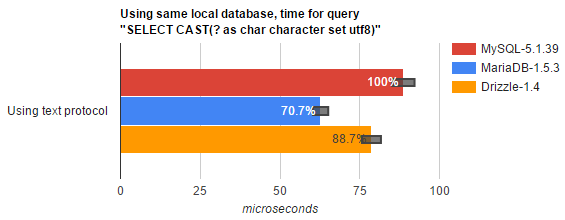
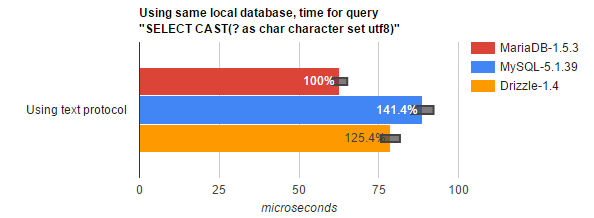
update readme

diff --git a/results/index.html b/results/index.html
@@ -86,11 +86,11 @@ http://htmlpreview.github.io/?https://github.com/rusher/mariadb-java-driver-benc
 
             var defaultData = new google.visualization.DataTable();
             defaultData.addColumn('string', 'x');
-            defaultData.addColumn('number', 'MySQL-5.1.39');
+            defaultData.addColumn('number', 'MariaDB-1.5.3');
             defaultData.addColumn({role: 'annotation', type: 'string'});
             defaultData.addColumn({id: 'min', type: 'number', role: 'interval'});
             defaultData.addColumn({id: 'max', type: 'number', role: 'interval'});
-            defaultData.addColumn('number', 'MariaDB-1.5.3');
+            defaultData.addColumn('number', 'MySQL-5.1.39');
             defaultData.addColumn({role: 'annotation', type: 'string'});
             defaultData.addColumn({id: 'min', type: 'number', role: 'interval'});
             defaultData.addColumn({id: 'max', type: 'number', role: 'interval'});
@@ -106,11 +106,11 @@ http://htmlpreview.github.io/?https://github.com/rusher/mariadb-java-driver-benc
 
             var defaultData = new google.visualization.DataTable();
             defaultData.addColumn('string', 'x');
-            defaultData.addColumn('number', 'MySQL-5.1.39');
+            defaultData.addColumn('number', 'MariaDB-1.5.3');
             defaultData.addColumn({role: 'annotation', type: 'string'});
             defaultData.addColumn({id: 'min', type: 'number', role: 'interval'});
             defaultData.addColumn({id: 'max', type: 'number', role: 'interval'});
-            defaultData.addColumn('number', 'MariaDB-1.5.3');
+            defaultData.addColumn('number', 'MySQL-5.1.39');
             defaultData.addColumn({role: 'annotation', type: 'string'});
             defaultData.addColumn({id: 'min', type: 'number', role: 'interval'});
             defaultData.addColumn({id: 'max', type: 'number', role: 'interval'});
@@ -121,11 +121,11 @@ http://htmlpreview.github.io/?https://github.com/rusher/mariadb-java-driver-benc
         function defaultDataMaria15() {
             var defaultData = new google.visualization.DataTable();
             defaultData.addColumn('string', 'x');
-            defaultData.addColumn('number', 'MySQL-5.1.39');
+            defaultData.addColumn('number', 'MariaDB-1.5.3');
             defaultData.addColumn({role: 'annotation', type: 'string'});
             defaultData.addColumn({id: 'min', type: 'number', role: 'interval'});
             defaultData.addColumn({id: 'max', type: 'number', role: 'interval'});
-            defaultData.addColumn('number', 'MariaDB-1.5.3-SNAPSHOT');
+            defaultData.addColumn('number', 'MySQL-5.1.39');
             defaultData.addColumn({role: 'annotation', type: 'string'});
             defaultData.addColumn({id: 'min', type: 'number', role: 'interval'});
             defaultData.addColumn({id: 'max', type: 'number', role: 'interval'});
@@ -372,7 +372,7 @@ github.com style (c) Vasily Polovnyov <vast@whiteants.net>
 
     <p> Benchmark source: <a href="https://github.com/rusher/mariadb-java-driver-benchmark">https://github.com/rusher/mariadb-java-driver-benchmark</a>.</p>
 
-    Tests are pretty straightforward.<br/>
+    Tests are pretty straightforward if you are familiar with java.<br/>
     Example:
     <pre><code class="java">
 public class BenchmarkSelect1RowPrepareText extends BenchmarkSelect1RowPrepareAbstract {
@@ -415,8 +415,8 @@ public abstract class BenchmarkSelect1RowPrepareAbstract extends BenchmarkInit {
     </p>
 
     <p>
-    Benchmark results have been executed on MariaDB Server 10.1.16 and MySQL Community Server 5.7.13 databases. 
-    Results are similar (see raw results at document bottom), so the following document show results using MariaDB Server 10.1.16.
+		Benchmark results have been executed on MariaDB Server 10.1.17 and MySQL Community Server 5.7.13 databases. 
+		Differences between drivers are simular (see raw results at the bottom of the document), so the following document show results using MariaDB Server 10.1.17.
     </p>
     <br/>
     
@@ -427,7 +427,7 @@ public abstract class BenchmarkSelect1RowPrepareAbstract extends BenchmarkInit {
         <li>Ubuntu 16.04 64bits</li>
         <li>512Mb memory</li>
         <li>1 CPU</li>
-        <li>database MariaDB "10.1.16-MariaDB", MySQL Community Server build "5.7.15-0ubuntu0.16.04.1"<br/>
+        <li>database MariaDB "10.1.17-MariaDB", MySQL Community Server build "5.7.15-0ubuntu0.16.04.1"<br/>
             using default configuration files and these additional options :
             <ul>
                 <li>max_allowed_packet      = 40M #exchange packet can be up to 40mb</li>
@@ -443,9 +443,9 @@ public abstract class BenchmarkSelect1RowPrepareAbstract extends BenchmarkInit {
 
     <pre class="java">
 Benchmark                                           Score     Error  Units
-BenchmarkSelect1RowPrepareText.drizzle              78.672 &#177;  2.971  &micro;s/op
 BenchmarkSelect1RowPrepareText.mariadb              62.715 &#177;  2.402  &micro;s/op
 BenchmarkSelect1RowPrepareText.mysql                88.670 &#177;  3.505  &micro;s/op
+BenchmarkSelect1RowPrepareText.drizzle              78.672 &#177;  2.971  &micro;s/op
 </pre>
 
     <div id="box_select1Text"></div>
@@ -453,7 +453,7 @@ BenchmarkSelect1RowPrepareText.mysql                88.670 &#177;  3.505  &micro
         google.charts.setOnLoadCallback(function () {
             var data = defaultData();
             var array = [
-                ['Using text protocol', 88.670,  3.505, 62.715,  2.402, 78.672,  2.971]
+                ['Using text protocol', 62.715,  2.402, 88.670,  3.505, 78.672,  2.971]
             ];
             data.addRows(getBoxPlotValues(array, true));
 
@@ -474,7 +474,7 @@ BenchmarkSelect1RowPrepareText.mysql                88.670 &#177;  3.505  &micro
         
     </p>
     <p>
-        Displayed percentages are set according to the first result as reference (100%), permitting to compare easily other results.
+        Displayed percentages are set according to the mariadb first result as reference (100%), permitting to easily compare other results.
     </p>
 
 
@@ -485,13 +485,13 @@ BenchmarkSelect1RowPrepareText.mysql                88.670 &#177;  3.505  &micro
     
     Different behaviours:
     <h4>Text protocol</h4>
-    This corresponds to option <a href="https://github.com/MariaDB/mariadb-connector-j/blob/master/documentation/Use-MariaDB-Connector-j-driver.md#useServerPrepStmts">useServerPrepStmts</a> disabled.<br/>
+    This corresponds to option <a href="https://github.com/MariaDB/mariadb-connector-j/blob/master/documentation/use-mariadb-connector-j-driver.creole#essential-options">useServerPrepStmts</a> disabled.<br/>
     Queries are sent directly to the server with sanitized parameters replacement done on client side.<br>
     Data is sent like text. Example: A timestamp will be sent like text "1970-01-01 00:00:00.000500" using 26 bytes
     
     <h4>Binary protocol</h4>
     <p>
-    This corresponds to the option <a href="https://github.com/MariaDB/mariadb-connector-j/blob/master/documentation/Use-MariaDB-Connector-j-driver.md#useServerPrepStmts">useServerPrepStmts</a> enabled (default implementation on MariaDB driver).<br/>
+    This corresponds to the option <a href="https://github.com/MariaDB/mariadb-connector-j/blob/master/documentation/use-mariadb-connector-j-driver.creole#essential-options">useServerPrepStmts</a> enabled (default implementation on MariaDB driver).<br/>
     Data is sent in binary. Example timestamp "1970-01-01 00:00:00.000500" will be sent using 11 bytes.</p>
     
     <p>There are up to 3 exchanges with the server for one query :
@@ -508,7 +508,7 @@ BenchmarkSelect1RowPrepareText.mysql                88.670 &#177;  3.505  &micro
     </p>
 
     <h4>Rewrite</h4>
-    This corresponds to the option <a href="https://github.com/MariaDB/mariadb-connector-j/blob/master/documentation/Use-MariaDB-Connector-j-driver.md#rewriteBatchedStatements">rewriteBatchedStatements</a> enabled.<br/>
+    This corresponds to the option <a href="https://github.com/MariaDB/mariadb-connector-j/blob/master/documentation/use-mariadb-connector-j-driver.creole#essential-options">rewriteBatchedStatements</a> enabled.<br/>
     Rewrite uses the text protocol and concern only batches. 
     The driver will rewrite the query for faster results. 
     <p>
@@ -536,7 +536,8 @@ BenchmarkSelect1RowPrepareText.mysql                88.670 &#177;  3.505  &micro
     <h1 id="bencmark_results">BENCHMARK RESULTS</h1>
     <h2>MariaDB driver results</h2>
     <h3>Single SELECT query</h3>
-<pre><code class="java">private String request = "SELECT CAST(? as char character set utf8)";
+<pre><code class="java">	
+private String request = "SELECT CAST(? as char character set utf8)";
 
 public String select1RowPrepare(Connection connection, MyState state) throws SQLException {
     try (PreparedStatement preparedStatement = connection.prepareStatement(request)) {
@@ -597,8 +598,10 @@ BenchmarkSelect1RowPrepareText.mariadb              422.215 &#177;  15.858  &mic
         });
     </script>
     <p>
-        When the PREPARE result for this exact query is already in cache (cache hit), query will be faster (18.7% for the SELECT) than using text protocol.
-        Due to the additional request PREPARE and DEALLOCATE exchanges, cache miss is 84.1% slower.<br/>
+        When the PREPARE result for this exact query is already in cache (cache hit), query will be faster (7.1% in this example) than using text protocol.
+        Due to the additional request PREPARE and DEALLOCATE exchanges, cache miss is 68.1% slower.
+	</p>
+	<p>
         This emphasis the advantages and inconvenients of using a binary protocol. Cache HIT is important.
     </p>
 <br/><br/>
@@ -716,7 +719,7 @@ PrepareStatementBatch100InsertText.mariadb          8.148 &#177;   0.563  ms/op<
     </p>
     <p>
 		Insert's are send by bulk and results read asynchronously (that corresponds to option <a href="https://github.com/MariaDB/mariadb-connector-j/blob/master/documentation/use-mariadb-connector-j-driver.creole#user-content-essential-options">useBatchMultiSend</a>).
-		This permit to have distant results not with performance not far from those local. 
+		This permit to have distant results with performance not far from those local. 
     </p>
     <p>
         Rewrite has amazing good performance, but will not have auto-increment ids. 
@@ -732,9 +735,9 @@ BenchmarkSelect1RowPrepareHit.mariadb                58.267 &#177;  2.270  &micr
 BenchmarkSelect1RowPrepareHit.mysql                  73.789 &#177;  1.863  &micro;s/op
 BenchmarkSelect1RowPrepareMiss.mariadb              118.896 &#177;  5.500  &micro;s/op
 BenchmarkSelect1RowPrepareMiss.mysql                150.679 &#177;  4.791  &micro;s/op
-BenchmarkSelect1RowPrepareText.drizzle               78.672 &#177;  2.971  &micro;s/op
 BenchmarkSelect1RowPrepareText.mariadb               62.715 &#177;  2.402  &micro;s/op
 BenchmarkSelect1RowPrepareText.mysql                 88.670 &#177;  3.505  &micro;s/op
+BenchmarkSelect1RowPrepareText.drizzle               78.672 &#177;  2.971  &micro;s/op
 BenchmarkSelect1RowPrepareTextHA.mariadb             64.676 &#177;  2.192  &micro;s/op
 BenchmarkSelect1RowPrepareTextHA.mysql              137.289 &#177;  4.872  &micro;s/op</pre>
     <div id="box_select"></div>
@@ -745,10 +748,10 @@ BenchmarkSelect1RowPrepareTextHA.mysql              137.289 &#177;  4.872  &micr
         function drawSelectPlot() {
             var data = defaultData();
             var array = [
-                ['Text protocol', 88.670 ,  3.505, 62.715,  2.402, 78.672,  2.971],
-                ['Text protocol HA', 137.289,  4.872, 64.676,  2.192,0,0],
-                ['Binary with cache miss', 150.679, 4.791, 118.896,  5.500,0,0],
-                ['Binary with cache hit', 73.789, 1.863, 58.267,  2.270 ,0,0]                
+                ['Text protocol', 62.715,  2.402, 88.670 ,  3.505, 78.672,  2.971],
+                ['Text protocol HA', 64.676,  2.192, 137.289,  4.872,0,0],
+                ['Binary with cache miss', 118.896,  5.500, 150.679, 4.791,0,0],
+                ['Binary with cache hit', 58.267,  2.270, 73.789, 1.863 ,0,0]                
             ];
             data.addRows(getBoxPlotValues(array, true));
 
@@ -766,15 +769,17 @@ BenchmarkSelect1RowPrepareTextHA.mysql              137.289 &#177;  4.872  &micr
         HA stands for "High Availability" using the Master-Slave configuration <br>(connection URL is "jdbc:mysql:replication://localhost:3306,localhost:3306/testj").
     </p>    
     <p>
-    Using the HA configuration will add a little execution time using MariaDB driver: 62.715 without become 64.676 microseconds.
-    
-    MariaDB and MySQL Driver use the Design Patterns java dynamic <a href="https://docs.oracle.com/javase/8/docs/api/java/lang/reflect/Proxy.html" target="_blank">Proxy</a> class permitting to filter call and handle failover.
-    This proxy permit to handle failover in a transparent way, but that will add an overhead a few microseconds execution.<br/>
+        These results are due to a lot of different implementation choice. 
+		Here is some reasons that explain time differences: 
+    </p>    
+	<ul>
+		<li>MariaDB driver is optimized for UTF-8, allowing less creation of bytes array, avoiding array copy, and memory consumption.</li>
+		<li>HA implementation : MariaDB and MySQL drivers  
+		use a java dynamic <a href="https://docs.oracle.com/javase/8/docs/api/java/lang/reflect/Proxy.html" target="_blank">Proxy</a> class 
+		sitting between Statement objects and sockets, permitting to add failover behaviour. Those addition will cost an overhead of 2 microseconds per query (62.715 without become 64.676 microseconds).<br/>In MySQL implementation, nearly all internal methods are proxied, adding an overhead for lots of methods that have nothing to do with failover, adding a total overhead of 50 microseconds to every query.</li>
+	</ul>	
     <p>
-    <p>
-    In MySQL implementation, nearly all internal methods are proxied, adding an overhead to a plain method invocation to methods that have nothing to do with failover. 
-    For example all access to internal variables getMaxRows() will be catched by the proxy implementation, adding a total overhead of 50 microseconds to every query.
-    <br/>(Drizzle has no PREPARE, neither HA functionality)
+		(Drizzle has no PREPARE, neither HA functionality)
     </p>
 <br/><br/>
     <h2 id="batches">"Select 1000 rows"</h2>
@@ -792,9 +797,9 @@ private ResultSet select1000Row(Connection connection) throws SQLException {
 }</code></pre>
     
 <pre class="java">
-BenchmarkSelect1000Rows.drizzle                     406.877 &#177; 16.585  &micro;s/op
 BenchmarkSelect1000Rows.mariadb                     244.228 &#177;  7.686  &micro;s/op
-BenchmarkSelect1000Rows.mysql                       298.814 &#177; 12.143  &micro;s/op</pre>
+BenchmarkSelect1000Rows.mysql                       298.814 &#177; 12.143  &micro;s/op
+BenchmarkSelect1000Rows.drizzle                     406.877 &#177; 16.585  &micro;s/op</pre>
 
     <div id="box_select1000"></div>
     <script>
@@ -803,7 +808,7 @@ BenchmarkSelect1000Rows.mysql                       298.814 &#177; 12.143  &micr
         function drawSelectPlot() {
             var data = defaultData();
             var array = [
-                ['Select 1000 rows', 298.814,12.143, 244.228,  7.686, 406.877, 16.585]
+                ['Select 1000 rows', 244.228,  7.686, 298.814,12.143, 406.877, 16.585]
             ];
             data.addRows(getBoxPlotValues(array, true));
 
@@ -819,10 +824,11 @@ BenchmarkSelect1000Rows.mysql                       298.814 &#177; 12.143  &micr
     <br/>
 
     <p>
-		If the test was only executing the SELECT without reading the results, execution time would be equivalent for MySQL and MariaDB driver (even 1% faster for MySQL).
-        Since the goal of a SELECT query is to have results, the MariaDB driver is optimized to read results (avoiding the creation of bytes arrays).
+		When using a lot of data, time is mostly spent on reading from socket, and storing result in memory for sending it back to client. 
+		If the benchmark was only executing the SELECT without reading the results, MySQL and MariaDB execution time would be equivalent. 
+		Since the goal of a SELECT query is to have results, the MariaDB driver is optimized to give back results (avoiding the creation of bytes arrays).
     </p>
-<br/><br/>
+	<br/><br/>
     <h2>"Insert 1000 rows"</h2>
     <pre class="java">
 LOCAL DATABASE:        
@@ -830,18 +836,18 @@ PrepareStatementBatch100InsertPrepareHit.mariadb    5.290 &#177;  0.232  ms/op
 PrepareStatementBatch100InsertPrepareHit.mysql      9.015 &#177;  0.440  ms/op
 PrepareStatementBatch100InsertRewrite.mariadb       0.404 &#177;  0.014  ms/op
 PrepareStatementBatch100InsertRewrite.mysql         0.592 &#177;  0.016  ms/op
-PrepareStatementBatch100InsertText.drizzle          7.314 &#177;  0.205  ms/op
 PrepareStatementBatch100InsertText.mariadb          6.081 &#177;  0.254  ms/op
-PrepareStatementBatch100InsertText.mysql            7.932 &#177;  0.293  ms/op</pre>
+PrepareStatementBatch100InsertText.mysql            7.932 &#177;  0.293  ms/op
+PrepareStatementBatch100InsertText.drizzle          7.314 &#177;  0.205  ms/op</pre>
     <pre class="java">
 DISTANT DATABASE:        
 PrepareStatementBatch100InsertPrepareHit.mariadb     7.639 &#177;   0.476  ms/op
 PrepareStatementBatch100InsertPrepareHit.mysql      43.636 &#177;   1.408  ms/op
 PrepareStatementBatch100InsertRewrite.mariadb        1.164 &#177;   0.037  ms/op
 PrepareStatementBatch100InsertRewrite.mysql          1.432 &#177;   0.050  ms/op
-PrepareStatementBatch100InsertText.drizzle          38.735 &#177;   1.731  ms/op
 PrepareStatementBatch100InsertText.mariadb           8.148 &#177;   0.563  ms/op
-PrepareStatementBatch100InsertText.mysql            43.804 &#177;   1.417  ms/op</pre>
+PrepareStatementBatch100InsertText.mysql            43.804 &#177;   1.417  ms/op
+PrepareStatementBatch100InsertText.drizzle          38.735 &#177;   1.731  ms/op</pre>
 
     <div id="box_insert1000" ></div>
     <div id="box_insert1000DISTANT" ></div>
@@ -850,9 +856,9 @@ PrepareStatementBatch100InsertText.mysql            43.804 &#177;   1.417  ms/op
 
         google.charts.setOnLoadCallback(function () {
             var array = [
-                ['Text protocol', 7.932 , 0.293, 6.081 ,  0.254, 7.314,  0.205],
-                ['Binary protocol', 9.015,  0.440, 5.290,  0.232, 0, 0],
-                ['Rewrite', 0.592, 0.016, 0.404, 0.014, 0, 0]
+                ['Text protocol', 6.081 ,  0.254, 7.932 , 0.293, 7.314,  0.205],
+                ['Binary protocol', 5.290,  0.232, 9.015,  0.440, 0, 0],
+                ['Rewrite', 0.404, 0.014, 0.592, 0.016, 0, 0]
             ];
 
             var data = defaultData();
@@ -873,9 +879,9 @@ PrepareStatementBatch100InsertText.mysql            43.804 &#177;   1.417  ms/op
 
         google.charts.setOnLoadCallback(function () {
             var array = [
-                ['Text protocol', 43.804, 1.417, 8.148,   0.563, 38.735 , 1.731],
-                ['Binary protocol', 43.636,  1.408, 7.639,  0.476, 0, 0],
-                ['Rewrite', 1.432 , 0.050, 1.164,   0.037, 0, 0]
+                ['Text protocol', 8.148,   0.563, 43.804, 1.417, 38.735 , 1.731],
+                ['Binary protocol', 7.639,  0.476, 43.636,  1.408, 0, 0],
+                ['Rewrite', 1.164,   0.037, 1.432 , 0.050, 0, 0]
             ];
 
             var data = defaultData();
@@ -890,7 +896,7 @@ PrepareStatementBatch100InsertText.mysql            43.804 &#177;   1.417  ms/op
         });
     </script>
     <p>
-		MySQL and Drizzle bulk insert are like X INSERT's : Driver send 1 INSERT, wait for insert result, and send next insert.
+		MySQL and Drizzle bulk insert are like X INSERT's: Driver send 1 INSERT, wait for insert result, and send next insert.
 		The network latency between each insert will slow down insertions. 
     </p>
     
@@ -920,7 +926,7 @@ BenchmarkCallableStatementWithOutParameter.mysql    714.108 &#177; 44.390  &micr
         google.charts.setOnLoadCallback(function () {
             var data = defaultDataWithoutDrizzle();
             var array = [
-                ['Calling function', 714.108, 44.390 , 88.572,  4.263]
+                ['Calling function', 88.572,  4.263, 714.108, 44.390]
             ];
             data.addRows(getBoxPlotValues(array, true));
 
@@ -948,20 +954,19 @@ BenchmarkCallableStatementWithOutParameter.mysql    714.108 &#177; 44.390  &micr
     
     <h1 id="conclusion">Conclusion</h1>
     
-    <p>MariaDB driver rocks!</p>
-    <p>The binary protocol has different advantages but relies on having the PREPARE results already in cache. 
+    <p>MariaDB driver rocks ! </p>
+  	
+	<p>The binary protocol has different advantages but relies on having the PREPARE results already in cache. 
     If applications have a lot of different kind of queries and database is distant, that may not be the better solution. 
-    </p>
-    
+    </p>  
     <p>Rewrite has amazing results to write data in batch</p>
-
-    <br/>
-    
+	<p>Driver holds well versus other drivers. And there is much to come, but that's another story.</p>
+	<br/><br/>
+    <hr/>    
     Raw results: 
     <ol>
-        <li><a href="./result_mariadb-10.1_server_local.txt">with a MariaDB 10.1.16 database</a></li>
-        <li><a href="./result_mariadb-10.2_server_local.txt">with a MariaDB 10.2.2 database</a> (<a href="./result_mariadb-10.2_server_local.txt">distant</a>)</li>
-        <li><a href="./result_mysql-5.7_server_local.txt">with a MySQL Community Server 5.7.15 database (build 5.7.15-0ubuntu0.16.04.1)</a></li>
+        <li>with a MariaDB 10.1.17 database <a href="https://raw.githubusercontent.com/rusher/mariadb-java-driver-benchmark/master/results/result_mariadb-10.1_server_local.txt">local</a>, <a href="https://raw.githubusercontent.com/rusher/mariadb-java-driver-benchmark/master/results/result_mariadb-10.1_server_distant.txt">distant</a></li>
+        <li>with a MySQL Community Server 5.7.15 database (build 5.7.15-0ubuntu0.16.04.1) <a href="https://raw.githubusercontent.com/rusher/mariadb-java-driver-benchmark/master/results/result_mysql-5.7_server_local.txt">local</a></li>
     </ol>
     
     <script>

diff --git a/README.md b/README.md
@@ -36,11 +36,11 @@ public class BenchmarkSelect1RowPrepareText extends BenchmarkSelect1RowPrepareAb
 }
 
 public abstract class BenchmarkSelect1RowPrepareAbstract extends BenchmarkInit {
-    private String request = "SELECT ?";
+    private String request = "SELECT CAST(? as char character set utf8)";
 
     public String select1RowPrepare(Connection connection, MyState state) throws SQLException {
         try (PreparedStatement preparedStatement = connection.prepareStatement(request)) {
-            preparedStatement.setString(1, state.insertData[state.counter++]);
+            preparedStatement.setString(1, state.insertData[state.counter++]); //a random 100 byte data
             try (ResultSet rs = preparedStatement.executeQuery()) {
                 rs.next();
                 return rs.getString(1);
@@ -185,9 +185,9 @@ ms/op means millisecond per operation, µs/op microsecond per operation.
 
 ```
 Benchmark                                           Mode  Cnt     Score    Error  Units
-BenchmarkSelect1RowPrepareText.drizzle              avgt  200    78.672 ±  2.971  µs/op
 BenchmarkSelect1RowPrepareText.mariadb              avgt  200    62.715 ±  2.402  µs/op
 BenchmarkSelect1RowPrepareText.mysql                avgt  200    88.670 ±  3.505  µs/op
+BenchmarkSelect1RowPrepareText.drizzle              avgt  200    78.672 ±  2.971  µs/op
 ```
 
 
